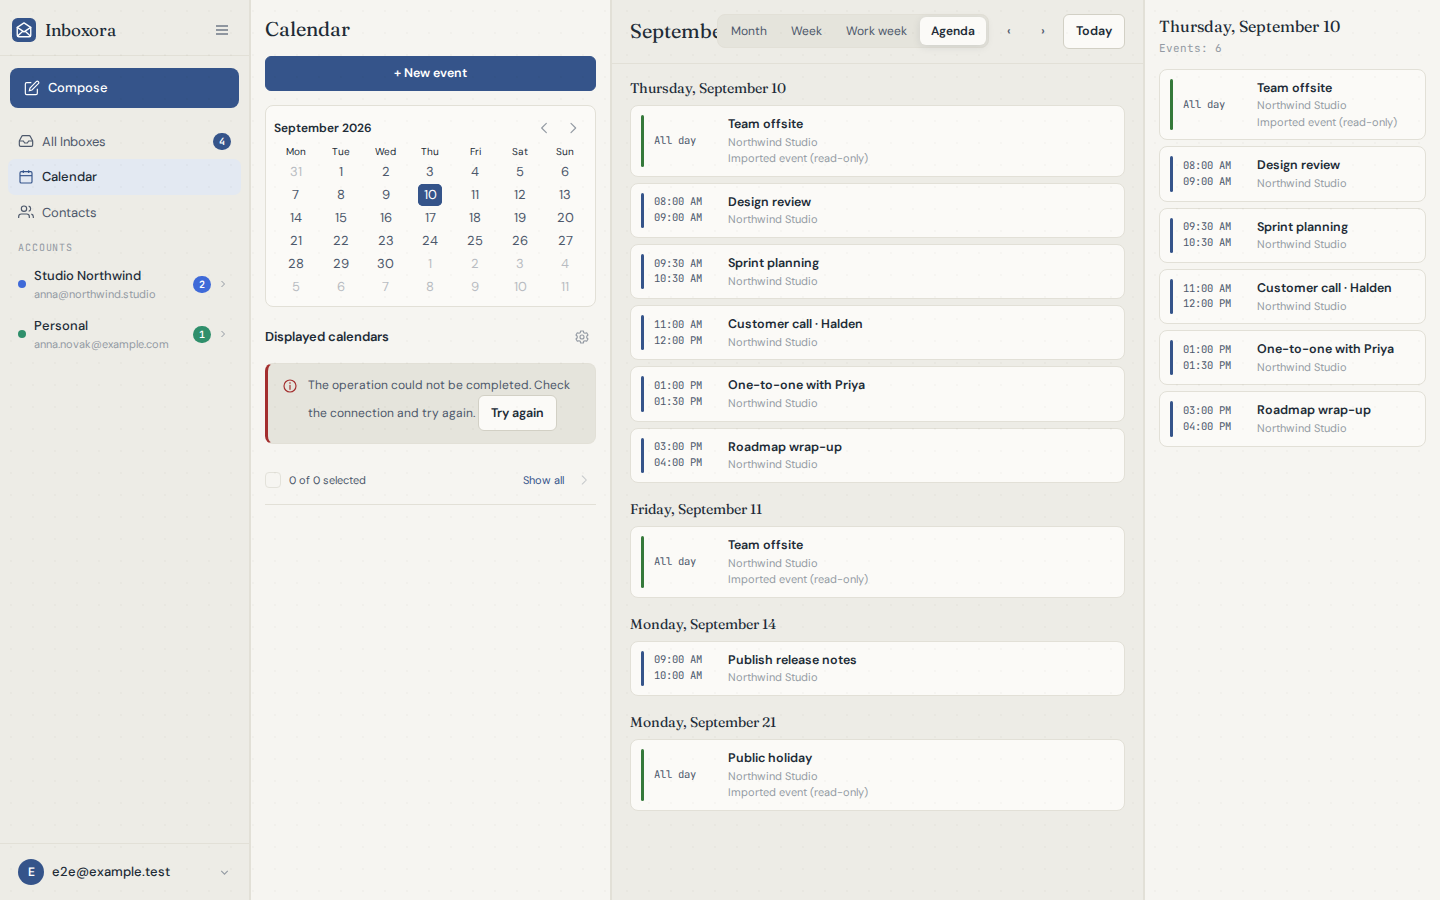
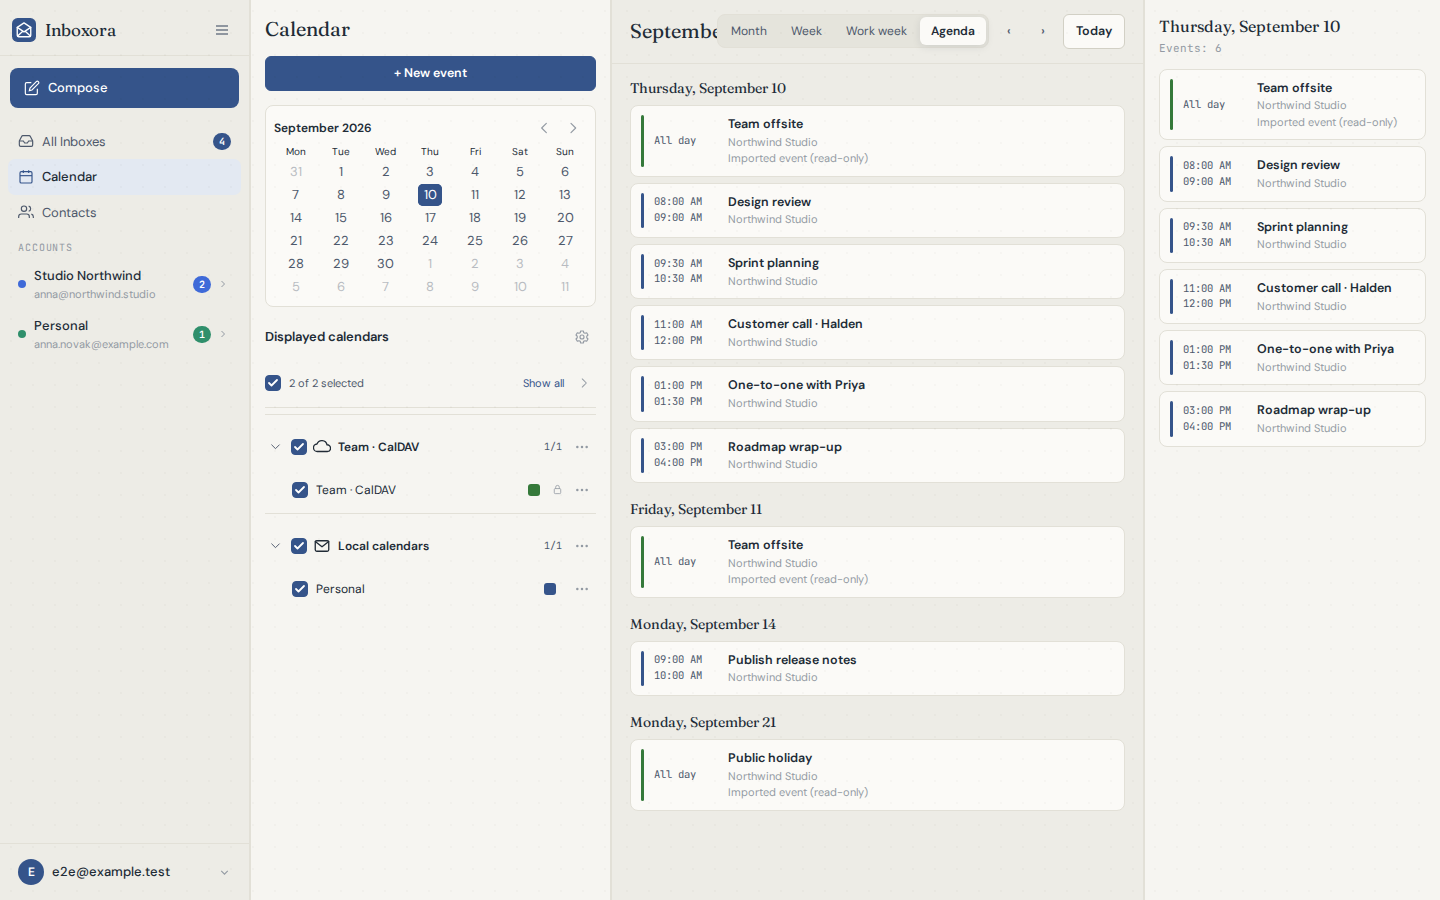
test: cover calendar presentation in docs fixtures
Assisted-by: gpt-5.6-luna

diff --git a/frontend/e2e/docs-demo.ts b/frontend/e2e/docs-demo.ts
@@ -502,6 +502,27 @@ export async function useEnglishWorkspaceData(page) {
     send_count: 42, last_sent: '2026-09-08T10:00:00Z',
   };
 
+  await page.route('**/api/calendar/presentation', route => route.fulfill({ json: {
+    revision: 'docs-demo',
+    sources: [
+      { id: 'local', kind: 'local', label: 'My calendars', accountId: null, identityLabel: null, featureEnabled: true, canSync: true, collapsed: false },
+      { id: 'calendar-source:team', kind: 'caldav', label: 'Team · CalDAV', accountId: null, identityLabel: null, featureEnabled: true, canSync: true, collapsed: false },
+    ],
+    calendars: [
+      { id: 'calendar-personal', sourceId: 'local', displayName: 'Personal', readOnly: false, selected: true, sidebarHidden: false, sourceColor: '#35548a', colorOverride: null, effectiveColor: '#35548a' },
+      { id: 'calendar-team', sourceId: 'calendar-source:team', displayName: 'Team · CalDAV', readOnly: true, selected: true, sidebarHidden: false, sourceColor: '#35793a', colorOverride: null, effectiveColor: '#35793a' },
+    ],
+    groups: [
+      {
+        id: 'local', kind: 'local', label: 'My calendars', accountId: null, identityLabel: null, featureEnabled: true, canSync: true, collapsed: false,
+        calendars: [{ id: 'calendar-personal', sourceId: 'local', displayName: 'Personal', readOnly: false, selected: true, sidebarHidden: false, sourceColor: '#35548a', colorOverride: null, effectiveColor: '#35548a' }],
+      },
+      {
+        id: 'calendar-source:team', kind: 'caldav', label: 'Team · CalDAV', accountId: null, identityLabel: null, featureEnabled: true, canSync: true, collapsed: false,
+        calendars: [{ id: 'calendar-team', sourceId: 'calendar-source:team', displayName: 'Team · CalDAV', readOnly: true, selected: true, sidebarHidden: false, sourceColor: '#35793a', colorOverride: null, effectiveColor: '#35793a' }],
+      },
+    ],
+  } }));
   await page.route('**/api/calendar/calendars', route => route.fulfill({ json: { calendars } }));
   await page.route('**/api/calendar/sources**', route => route.fulfill({ json: { sources: [] } }));
   await page.route('**/api/calendar/events**', route => {
@@ -559,6 +580,7 @@ export async function assertDocsPresentation(page, { mode = 'mail-list', require
   // The unified inbox only renders with two or more enabled accounts, so its presence
   // also proves the shared demo data reached the sidebar.
   await expect(page.getByTestId('all-inboxes'), 'the unified inbox entry point must be visible').toBeVisible();
+  await expect(page.locator('.ui-alert:visible'), 'documentation captures must not hide an application error').toHaveCount(0);
 
   if (mode === 'mail-reader') {
     const bodyFrame = page.locator('section[data-conversation-id]:visible iframe').first();
